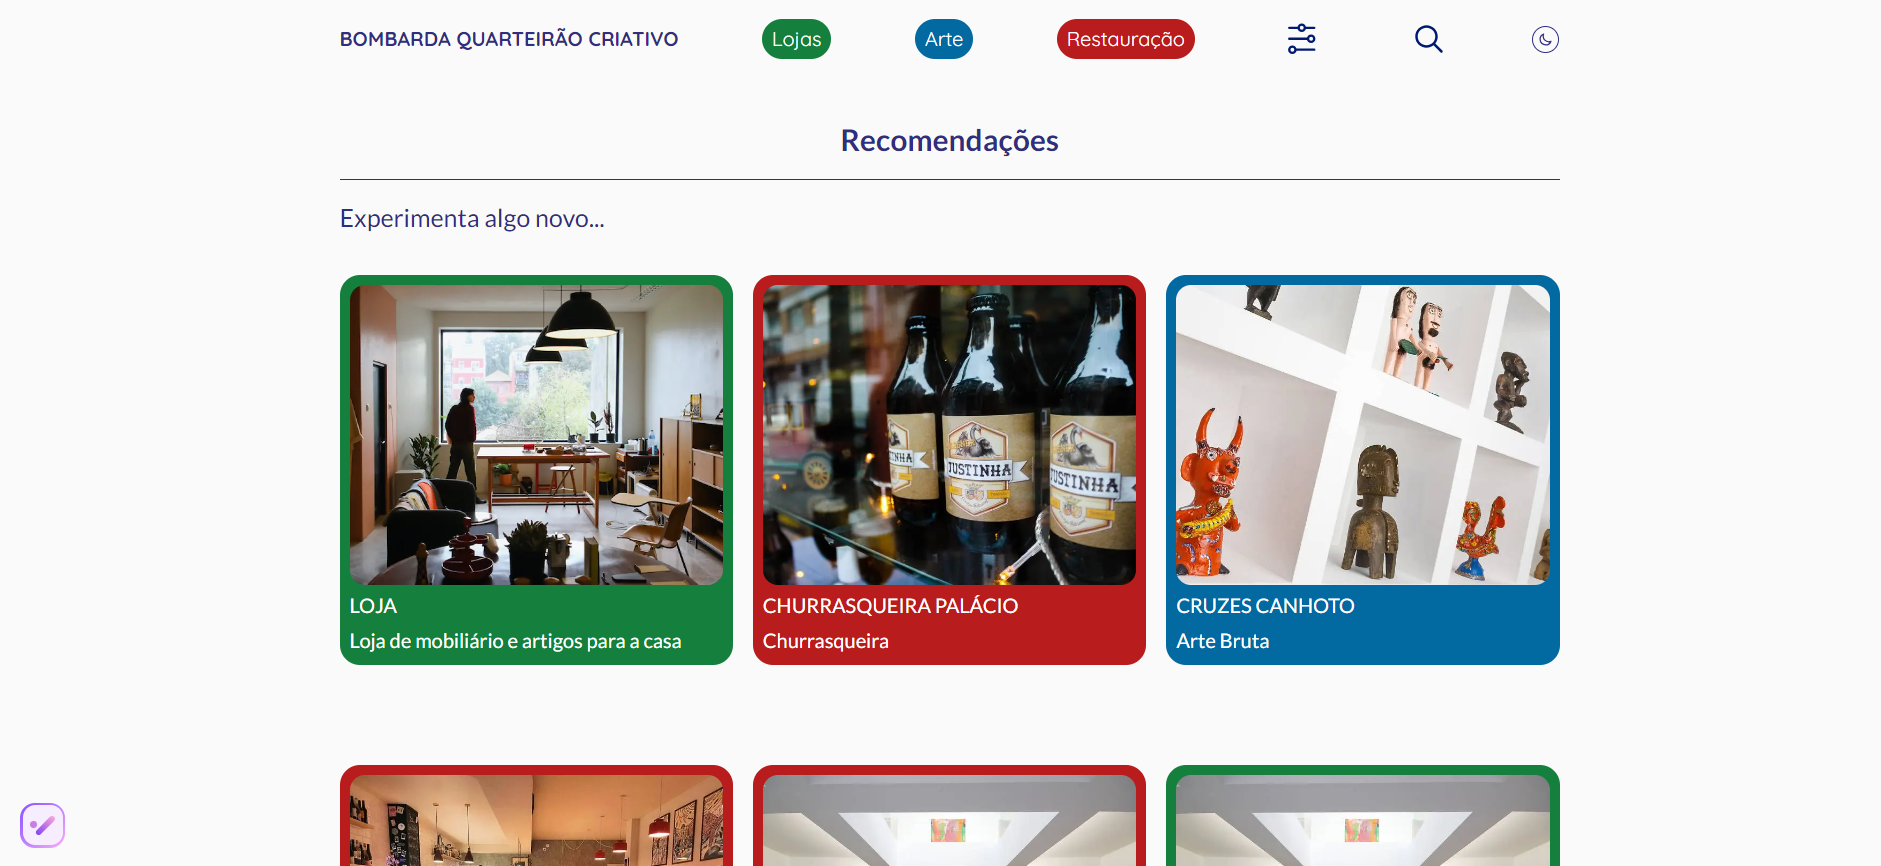
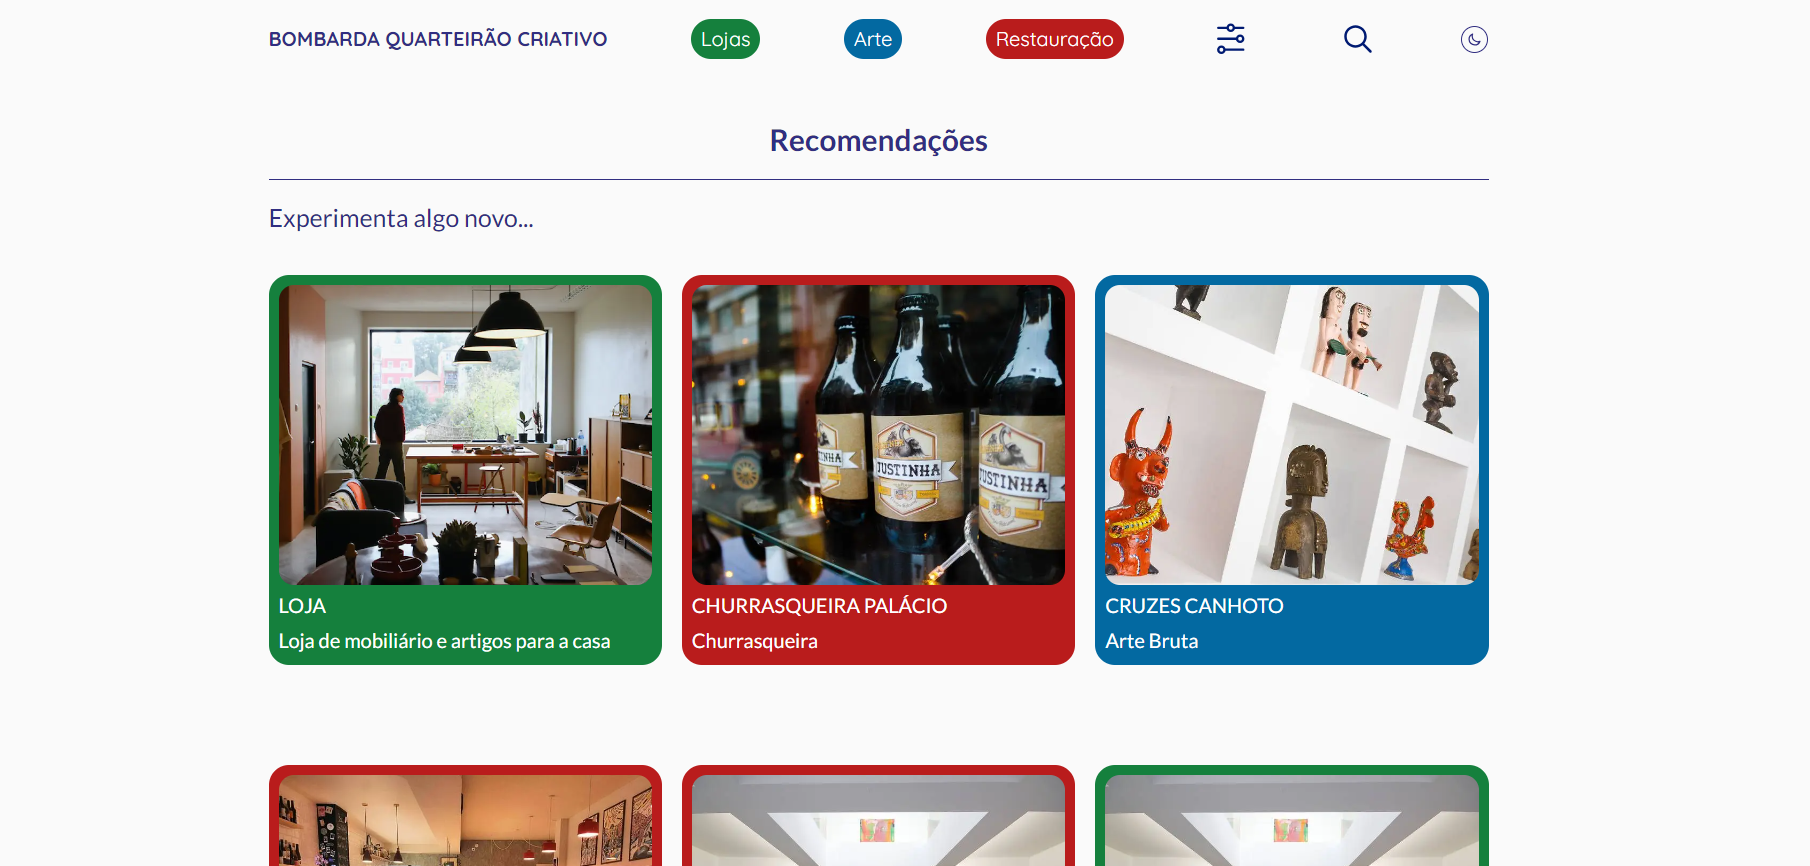
Fix images

diff --git a/app/components/ProjectItem.tsx b/app/components/ProjectItem.tsx
@@ -19,31 +19,33 @@ const ProjectItem: React.FC<ProjectItemProps> = ({
   demoUrl,
 }) => {
   return (
-    <div className="relative flex items-center justify-center h-auto w-full shadow-md shadow-stone-400 border-2 rounded border-stone-400 group hover:bg-gradient-to-r from-[black] to-red-800">
-      {/* Use different images for small and larger screens */}
-      <div className="block sm:hidden relative w-full h-[600px]">
+<div className="relative flex items-center justify-center h-auto w-full shadow-md shadow-stone-400 border-2 rounded border-stone-400 group hover:bg-gradient-to-r from-[black] to-red-800 overflow-hidden">
+{/* Use different images for small and larger screens */}
+      <div className="block sm:hidden relative w-full h-[620px]">
+        <Image
+          className="group-hover:opacity-20 rounded object-fill"
+          src={backgroundImgMobile}
+          alt="Website project"
+          layout="fill"
+        />
+      </div>
+      <div className="hidden sm:block relative w-full h-[525px]">
   <Image
-    className="group-hover:opacity-20 rounded object-fill"
-    src={backgroundImgMobile}
+    className="block group-hover:opacity-20 rounded object-fill"
+    src={backgroundImg}
     alt="Website project"
     layout="fill"
   />
 </div>
-      <div className="hidden sm:block">
-        <Image
-          className="group-hover:opacity-20 rounded"
-          src={backgroundImg}
-          alt="Website project"
-          height={500} // Landscape orientation for larger screens
-          width={1000}
-        />
-      </div>
+
       <div className="hidden font-raj group-hover:block absolute top-[50%] left-[50%] translate-x-[-50%] translate-y-[-50%]">
         <Link href={projectUrl}>
           <h2 className="text-2xl lg:text-3xl 2xl:text-4xl font-poiret font-bold uppercase tracking-wide text-white text-center whitespace-nowrap overflow-hidden text-ellipsis">
             {title}
           </h2>
-          <h3 className="text-white w-full text-center block text-lg md:text-lg">{subtitle} </h3>
+          <h3 className="text-white w-full text-center block text-lg md:text-lg">
+            {subtitle}{" "}
+          </h3>
         </Link>
         {/* Flex container for horizontal alignment */}
         <div className="mt-4 flex flex-col md:flex-row items-center justify-center gap-4">
